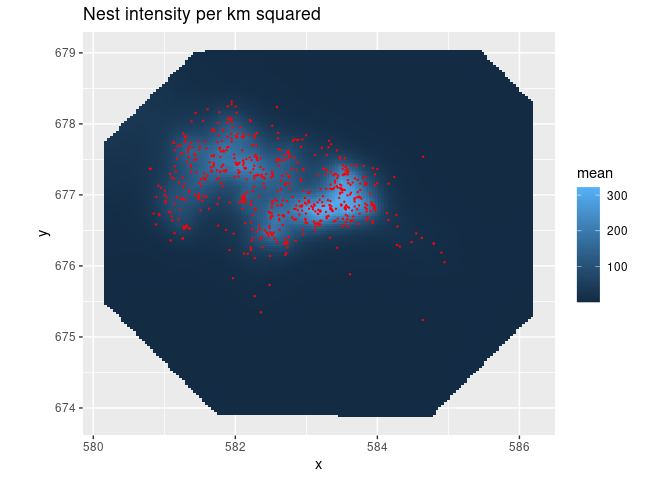
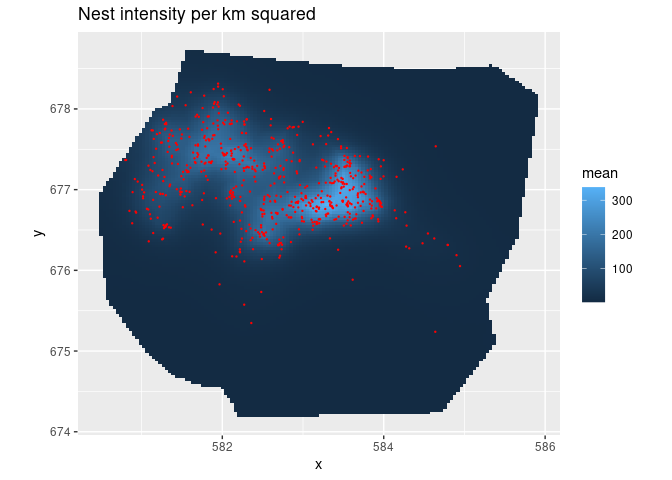
Limit prediction to study domain in gorillas example

diff --git a/README.md b/README.md
@@ -94,7 +94,9 @@ fit <- lgcp(cmp,
             options = list(control.inla = list(int.strategy = "eb")))
 
 # Predict Gorilla nest intensity
-lambda <- predict(fit, pixels(gorillas$mesh), ~ exp(mySmooth + Intercept))
+lambda <- predict(fit,
+                  pixels(gorillas$mesh, mask = gorillas$boundary),
+                  ~ exp(mySmooth + Intercept))
 
 # Plot the result
 ggplot() + 
